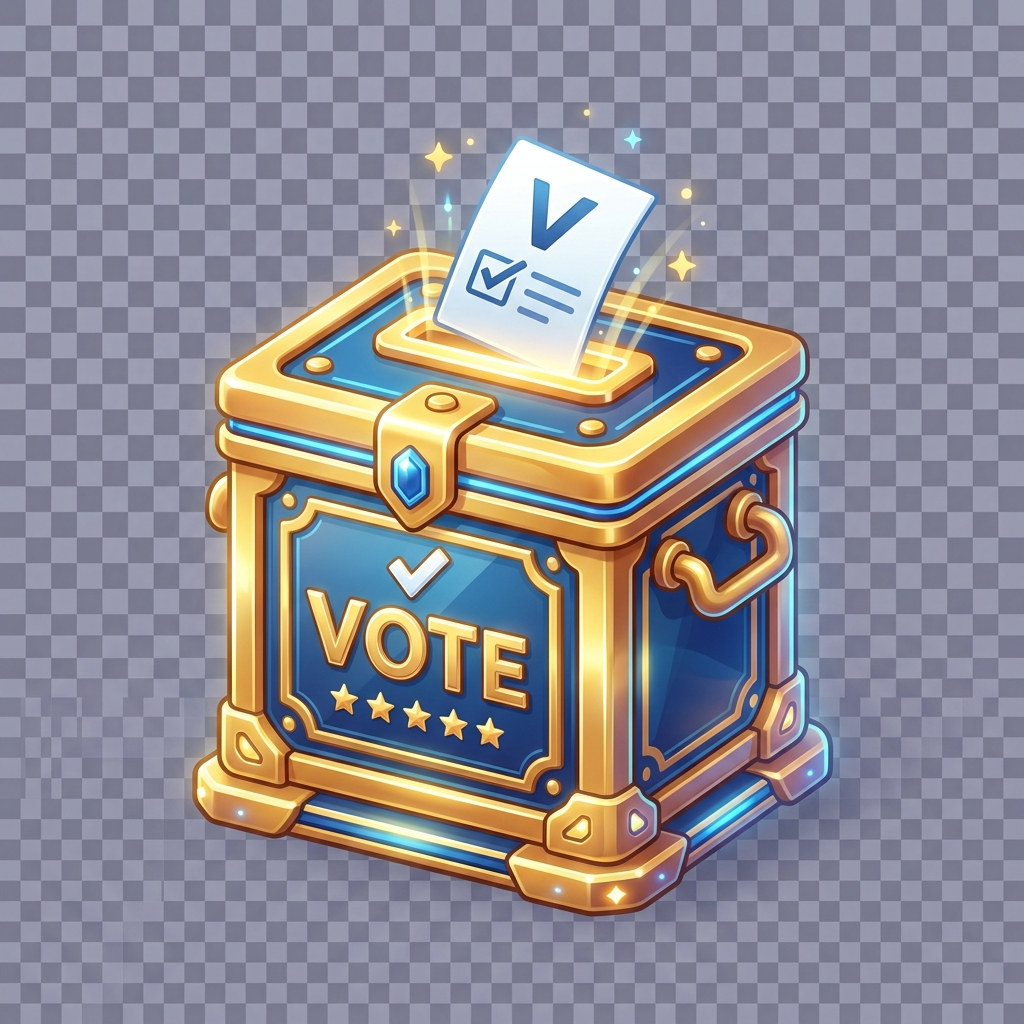
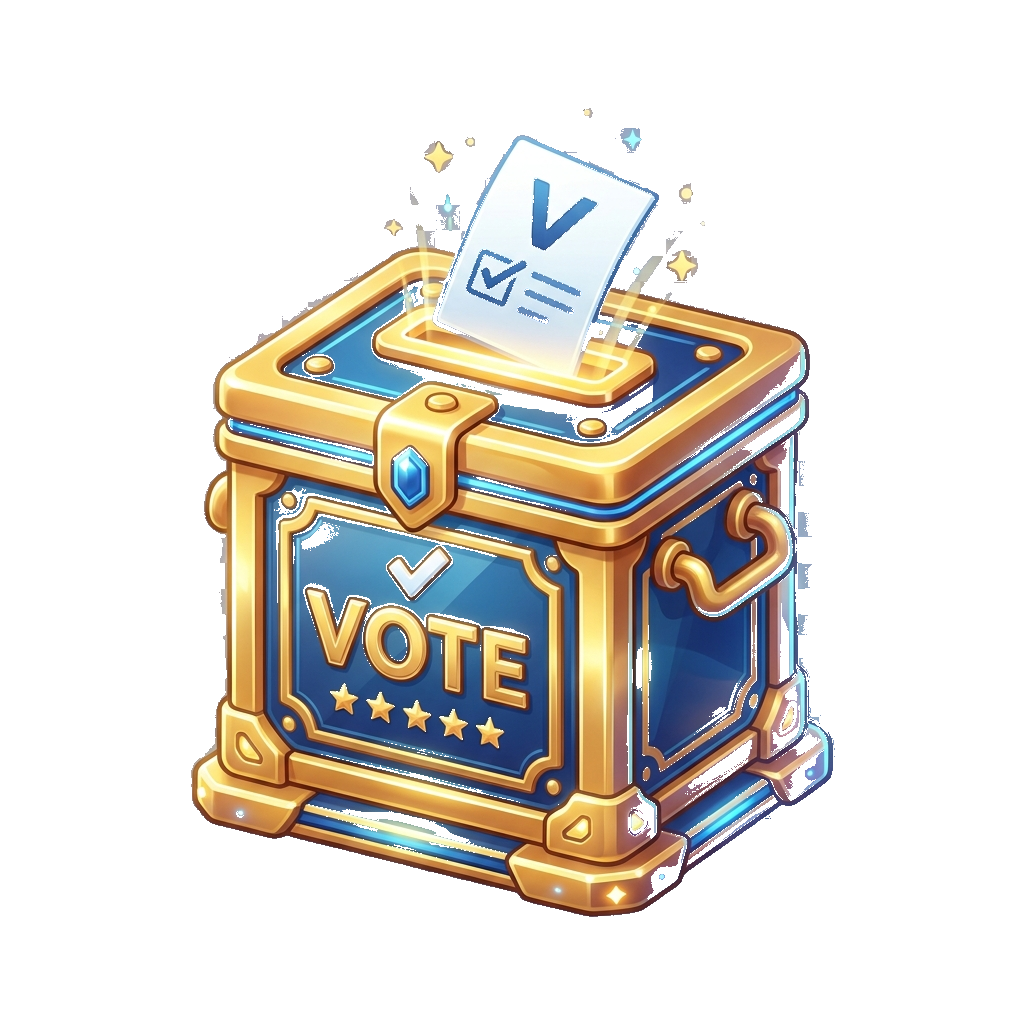
fix(assets): quitar fondos horneados de los assets que debian ser transparentes
La premiacion mostraba los premios (gallo/tomate/vengador) como cuadros
blancos: tenian un tablero de ajedrez de 'transparencia' horneado como pixeles
opacos (alfa 0%). Ademas se colaron otros 11 archivos con fondos planos.

- scripts/audit_asset_transparency.py: audita que los assets de primer plano
  tengan alfa real (revisa los 67 del repo).
- scripts/fix_asset_transparency.py: quita el fondo detectandolo en las
  esquinas y haciendo floodfill desde el borde (no perfora los blancos
  internos del dibujo). Soporta tableros de 2 tonos, --auto-green para cromas
  y --auto-light para fondos blancos/grises, y --from-transparent para
  terminar cromas a medias.
- Arreglados: award_gallo/tomate/vengador, icon_emo_broken_heart, icon_emo_rain,
  icon_genre_emo, icon_emo_diary, icon_vote_box (+ sus .png), y las vinetas
  emo singing (tenia la habitacion verde entera) y award_blackout (cielo gris).
Auditoria final: 67/67 assets con transparencia correcta.

diff --git a/scripts/fix_asset_transparency.py b/scripts/fix_asset_transparency.py
@@ -1,0 +1,227 @@
+#!/usr/bin/env python3
+"""Quita el fondo horneado de assets que deberian ser transparentes (RGBA).
+
+Detecta el color de fondo muestreando el borde de la imagen (soporta fondos de
+varios tonos, como el tablero de ajedrez de "transparencia" que algunas
+herramientas dejan horneado) y hace floodfill desde el borde, de modo que solo
+se borra el fondo CONECTADO al borde: los blancos/grises internos del dibujo se
+conservan.
+
+Uso:
+    python3 scripts/fix_asset_transparency.py public/assets/award_*.webp
+    python3 scripts/fix_asset_transparency.py --check public/assets/*.webp
+    python3 scripts/fix_asset_transparency.py --tol 40 --grow 2 img.webp
+
+Salida: sobrescribe el archivo como WEBP con alfa (o PNG si la extension es
+.png). Con --check solo informa.
+"""
+
+import argparse
+import sys
+from collections import Counter
+from pathlib import Path
+
+try:
+    from PIL import Image, ImageChops, ImageDraw, ImageFilter
+except ImportError:
+    print("Falta Pillow: pip install Pillow", file=sys.stderr)
+    sys.exit(1)
+
+ROOT = Path(__file__).resolve().parent.parent
+
+
+def border_colors(rgb: Image.Image, alpha: Image.Image, depth: int = 48, quant: int = 8) -> list[tuple[int, int, int]]:
+    """Tonos de fondo candidatos: los que aparecen en >=3 de las 4 esquinas.
+
+    Es deliberadamente conservador: si una esquina es transparente no aporta, y
+    un color solo cuenta si esta en casi todas las esquinas. Asi no confundimos
+    un fleco de color del propio dibujo con el fondo.
+    """
+    w, h = rgb.size
+    depth = max(4, min(depth, w // 2, h // 2))
+    px = rgb.load()
+    ap = alpha.load()
+    patches = {
+        "tl": [(x, y) for y in range(depth) for x in range(depth)],
+        "tr": [(w - 1 - x, y) for y in range(depth) for x in range(depth)],
+        "bl": [(x, h - 1 - y) for y in range(depth) for x in range(depth)],
+        "br": [(w - 1 - x, h - 1 - y) for y in range(depth) for x in range(depth)],
+    }
+    votes: dict[tuple[int, int, int], int] = {}
+    for pts in patches.values():
+        tones = set()
+        for (x, y) in pts:
+            if ap[x, y] > 0:
+                tones.add(tuple(v // quant * quant for v in px[x, y]))
+        for t in tones:
+            votes[t] = votes.get(t, 0) + 1
+
+    candidates = [t for t, n in votes.items() if n >= 3]
+    opaque_corners = sum(1 for pts in patches.values() if any(ap[x, y] > 0 for (x, y) in pts))
+    if opaque_corners < 3:
+        return []
+    return candidates[:4]
+
+
+def build_bg_mask(rgb: Image.Image, alpha: Image.Image, colors: list[tuple[int, int, int]], tol: int) -> Image.Image:
+    """Mascara 255 donde el pixel es opaco y se parece a algun tono de fondo."""
+    mask = Image.new("L", rgb.size, 0)
+    for c in colors:
+        solid = Image.new("RGB", rgb.size, c)
+        diff = ImageChops.difference(rgb, solid)
+        r, g, b = diff.split()
+        maxdiff = ImageChops.lighter(ImageChops.lighter(r, g), b)
+        m = maxdiff.point(lambda v, t=tol: 255 if v <= t else 0)
+        mask = ImageChops.lighter(mask, m)
+    opaque = alpha.point(lambda v: 255 if v > 0 else 0)
+    return ImageChops.multiply(mask, opaque)
+
+
+def green_candidates(rgb: Image.Image, alpha: Image.Image, quant: int = 16,
+                     min_share: float = 0.04, limit: int = 3) -> list[tuple[int, int, int]]:
+    """Tonos verdes dominantes entre los pixeles opacos (fondo de croma)."""
+    px = rgb.load()
+    ap = alpha.load()
+    w, h = rgb.size
+    counter: Counter = Counter()
+    total = 0
+    for y in range(0, h, 3):
+        for x in range(0, w, 3):
+            if ap[x, y] == 0:
+                continue
+            r, g, b = px[x, y]
+            total += 1
+            if g > r + 18 and g > b + 18:
+                counter[tuple(v // quant * quant for v in (r, g, b))] += 1
+    return [c for c, n in counter.most_common(limit) if n >= total * min_share]
+
+
+def light_candidates(rgb: Image.Image, alpha: Image.Image, quant: int = 8,
+                     min_share: float = 0.05, limit: int = 3) -> list[tuple[int, int, int]]:
+    """Tonos claros neutros dominantes (fondos blancos/grises)."""
+    px = rgb.load()
+    ap = alpha.load()
+    w, h = rgb.size
+    counter: Counter = Counter()
+    total = 0
+    for y in range(0, h, 3):
+        for x in range(0, w, 3):
+            if ap[x, y] == 0:
+                continue
+            r, g, b = px[x, y]
+            total += 1
+            if min(r, g, b) >= 170 and max(r, g, b) - min(r, g, b) <= 14:
+                counter[tuple(v // quant * quant for v in (r, g, b))] += 1
+    return [c for c, n in counter.most_common(limit) if n >= total * min_share]
+
+
+def flood_from_border(mask: Image.Image, transparent: Image.Image | None = None,
+                      marker: int = 128) -> Image.Image:
+    """Marca (marker) la componente de fondo conectada al borde.
+
+    Si se pasa `transparent`, las zonas ya transparentes cuentan como parte del
+    fondo: asi se termina de quitar un croma que quedo a medias (el fondo no
+    llega al borde porque el borde ya estaba recortado).
+    """
+    if transparent is not None:
+        mask = ImageChops.lighter(mask, transparent.point(lambda v: 255 if v == 0 else 0))
+    w, h = mask.size
+    px = mask.load()
+    seeds = []
+    for x in range(w):
+        seeds.append((x, 0))
+        seeds.append((x, h - 1))
+    for y in range(h):
+        seeds.append((0, y))
+        seeds.append((w - 1, y))
+    for s in seeds:
+        if px[s[0], s[1]] == 255:
+            ImageDraw.floodfill(mask, s, marker, thresh=0)
+    return mask
+
+
+def process(path: Path, tol: int, grow: int, check: bool, opts) -> dict:
+    img = Image.open(path).convert("RGBA")
+    rgb = img.convert("RGB")
+    alpha = img.getchannel("A")
+    if getattr(opts, "auto_green", False):
+        colors = green_candidates(rgb, alpha)
+    elif getattr(opts, "auto_light", False):
+        colors = light_candidates(rgb, alpha)
+    else:
+        colors = border_colors(rgb, alpha)
+    out = {"path": str(path.relative_to(ROOT)) if path.is_absolute() else str(path), "colors": colors}
+
+    if not colors:
+        out["result"] = "sin-fondo-detectado"
+        return out
+
+    mask = build_bg_mask(rgb, alpha, colors, tol)
+    before = mask.histogram()[255]
+    mask = flood_from_border(mask, alpha if opts.from_transparent else None)
+    bg = mask.histogram()[128]
+    out["bg_pixels"] = bg
+    out["bg_pct"] = round(100.0 * bg / (mask.size[0] * mask.size[1]), 1)
+
+    if check:
+        out["result"] = "necesita-fix" if out["bg_pct"] > 1.0 else "ok"
+        return out
+
+    if grow > 0:
+        # Come el borde anti-aliaseado (solo pixeles que siguen pareciendo fondo).
+        dilated = mask.filter(ImageFilter.MaxFilter(2 * grow + 1))
+        glued = ImageChops.multiply(
+            dilated.point(lambda v: 255 if v >= 128 else 0),
+            mask.point(lambda v: 255 if v == 255 else 0),
+        )
+        mask = ImageChops.lighter(mask, glued)
+
+    alpha = Image.eval(mask, lambda v: 0 if v >= 128 else 255)
+    img.putalpha(ImageChops.multiply(img.getchannel("A"), alpha))
+
+    aa = img.getchannel("A")
+    hist = aa.histogram()
+    out["after_transparent_pct"] = round(100.0 * hist[0] / (aa.size[0] * aa.size[1]), 1)
+    out["after_opaque_pct"] = round(100.0 * hist[255] / (aa.size[0] * aa.size[1]), 1)
+
+    if path.suffix.lower() == ".png":
+        img.save(path, "PNG")
+    else:
+        img.save(path, "WEBP", quality=92, method=6)
+    out["result"] = "fix"
+    return out
+
+
+def main() -> int:
+    ap = argparse.ArgumentParser()
+    ap.add_argument("files", nargs="+")
+    ap.add_argument("--tol", type=int, default=28, help="tolerancia por canal contra el fondo")
+    ap.add_argument("--grow", type=int, default=2, help="pixeles a comer del borde anti-aliaseado")
+    ap.add_argument("--check", action="store_true", help="solo informar, no escribir")
+    ap.add_argument("--auto-green", action="store_true", help="tonos de fondo = verdes dominantes (croma)")
+    ap.add_argument("--auto-light", action="store_true", help="tonos de fondo = claros neutros dominantes")
+    ap.add_argument("--from-transparent", action="store_true",
+                    help="las zonas ya transparentes cuentan como fondo (terminar cromas a medias)")
+    args = ap.parse_args()
+
+    code = 0
+    for f in args.files:
+        p = Path(f)
+        if not p.is_absolute():
+            p = ROOT / f
+        if not p.exists():
+            print(f"  FALTA {f}")
+            code = 1
+            continue
+        r = process(p, args.tol, args.grow, args.check, args)
+        print(
+            f"  {r.get('result','?'):22s} {r['path']}"
+            + (f"  fondo={r.get('bg_pct')}%" if "bg_pct" in r else "")
+            + (f"  -> alfa: {r.get('after_transparent_pct')}% transp / {r.get('after_opaque_pct')}% opaco" if "after_transparent_pct" in r else "")
+            + (f"  tonos={r['colors']}" if r.get("colors") else "")
+        )
+    return code
+
+
+if __name__ == "__main__":
+    sys.exit(main())

diff --git a/scripts/audit_asset_transparency.py b/scripts/audit_asset_transparency.py
@@ -1,0 +1,141 @@
+#!/usr/bin/env python3
+"""Audita que los assets de imagen que deben ser transparentes lo sean.
+
+Reporta, por cada imagen: modo (RGB/RGBA), si el canal alfa tiene
+transparencia real y el color de las 4 esquinas. Sirve para detectar assets
+generados con fondo plano (blanco/negro/verde) que deberian ser RGBA.
+
+Uso:
+    python3 scripts/audit_asset_transparency.py [--fix] [--report out.json]
+"""
+
+import argparse
+import json
+import os
+import sys
+from pathlib import Path
+
+try:
+    from PIL import Image
+except ImportError:
+    print("Falta Pillow: pip install Pillow", file=sys.stderr)
+    sys.exit(1)
+
+ROOT = Path(__file__).resolve().parent.parent
+PUBLIC = ROOT / "public"
+
+# Assets que SIEMPRE van encima de otras capas: deben tener alfa real.
+# (fondos y capturas no: son opacos a proposito)
+TRANSPARENT_HINTS = (
+    "avatar", "vignette", "axolo", "award", "icon_", "trophy", "crown",
+    "stars", "star_", "tomato", "deco", "logo", "glitter", "particle",
+    "splash", "badge", "medal", "pedestal", "shard", "confetti",
+)
+
+OPAQUE_HINTS = (
+    "bg_", "_bg", "background", "fondo", "lobby_bg", "loading_bg",
+    "podium_bg", "wallpaper", "cover", "poster",
+)
+
+EXTS = {".png", ".webp", ".jpg", ".jpeg"}
+
+
+def classify(path: Path) -> str:
+    name = path.name.lower()
+    if any(h in name for h in OPAQUE_HINTS):
+        return "opaque"
+    if any(h in name for h in TRANSPARENT_HINTS):
+        return "transparent"
+    return "unknown"
+
+
+def analyze(path: Path) -> dict:
+    info = {"path": str(path.relative_to(ROOT)), "expect": classify(path)}
+    try:
+        with Image.open(path) as im:
+            info["format"] = im.format
+            info["size"] = list(im.size)
+            info["mode"] = im.mode
+            has_alpha = "A" in im.getbands() or im.mode == "P" and "transparency" in im.info
+            info["has_alpha"] = bool(has_alpha)
+
+            rgba = im.convert("RGBA")
+            w, h = rgba.size
+            px = rgba.load()
+
+            transparent = 0
+            step = max(1, (w * h) // 40000)
+            samples = 0
+            for y in range(0, h, max(1, int(step ** 0.5))):
+                for x in range(0, w, max(1, int(step ** 0.5))):
+                    samples += 1
+                    if px[x, y][3] == 0:
+                        transparent += 1
+            info["transparent_pct"] = round(100.0 * transparent / max(1, samples), 1)
+
+            corners = {}
+            for label, (cx, cy) in {
+                "tl": (0, 0), "tr": (w - 1, 0), "bl": (0, h - 1), "br": (w - 1, h - 1),
+            }.items():
+                corners[label] = list(px[cx, cy])
+            info["corners"] = corners
+            info["corners_equal"] = len({tuple(v) for v in corners.values()}) == 1
+            info["corner_opaque"] = all(v[3] == 255 for v in corners.values())
+
+            if info["has_alpha"] and info["transparent_pct"] > 1.0:
+                info["status"] = "ok"
+            elif info["expect"] == "opaque":
+                info["status"] = "ok" if not info["has_alpha"] else "opaque-bg"
+            else:
+                info["status"] = "sin-transparencia"
+    except Exception as exc:  # noqa: BLE001
+        info["error"] = str(exc)
+        info["status"] = "error"
+    return info
+
+
+def main() -> int:
+    ap = argparse.ArgumentParser()
+    ap.add_argument("--report", default=None, help="guardar JSON del reporte")
+    args = ap.parse_args()
+
+    items = []
+    for base, dirs, files in os.walk(PUBLIC):
+        dirs[:] = [d for d in dirs if d not in {"node_modules", "libs", "fonts"}]
+        for f in sorted(files):
+            p = Path(base) / f
+            if p.suffix.lower() in EXTS:
+                items.append(analyze(p))
+
+    problems = [i for i in items if i["status"] not in ("ok", "error")]
+    errors = [i for i in items if i["status"] == "error"]
+
+    print(f"Assets analizados: {len(items)}")
+    print(f"Con transparencia OK: {sum(1 for i in items if i['status'] == 'ok')}")
+    print(f"PROBLEMAS (deberian ser RGBA y no lo son): {len(problems)}")
+    if errors:
+        print(f"Errores de lectura: {len(errors)}")
+
+    print("\n== PROBLEMAS ==")
+    for i in problems:
+        corners = ", ".join(f"{k}{tuple(v)}" for k, v in i["corners"].items())
+        print(
+            f"  {i['path']}  [{i.get('mode')} {i.get('size')}] "
+            f"alfa={i.get('has_alpha')} transp={i.get('transparent_pct')}%  "
+            f"esquinas={corners}"
+        )
+
+    print("\n== DUDOSOS (sin pista en el nombre) ==")
+    for i in items:
+        if i["expect"] == "unknown" and i["status"] != "ok":
+            print(f"  {i['path']}  [{i.get('mode')} {i.get('size')}] transp={i.get('transparent_pct')}%")
+
+    if args.report:
+        Path(args.report).write_text(json.dumps(items, indent=2, ensure_ascii=False))
+        print(f"\nReporte escrito en {args.report}")
+
+    return 0
+
+
+if __name__ == "__main__":
+    sys.exit(main())
